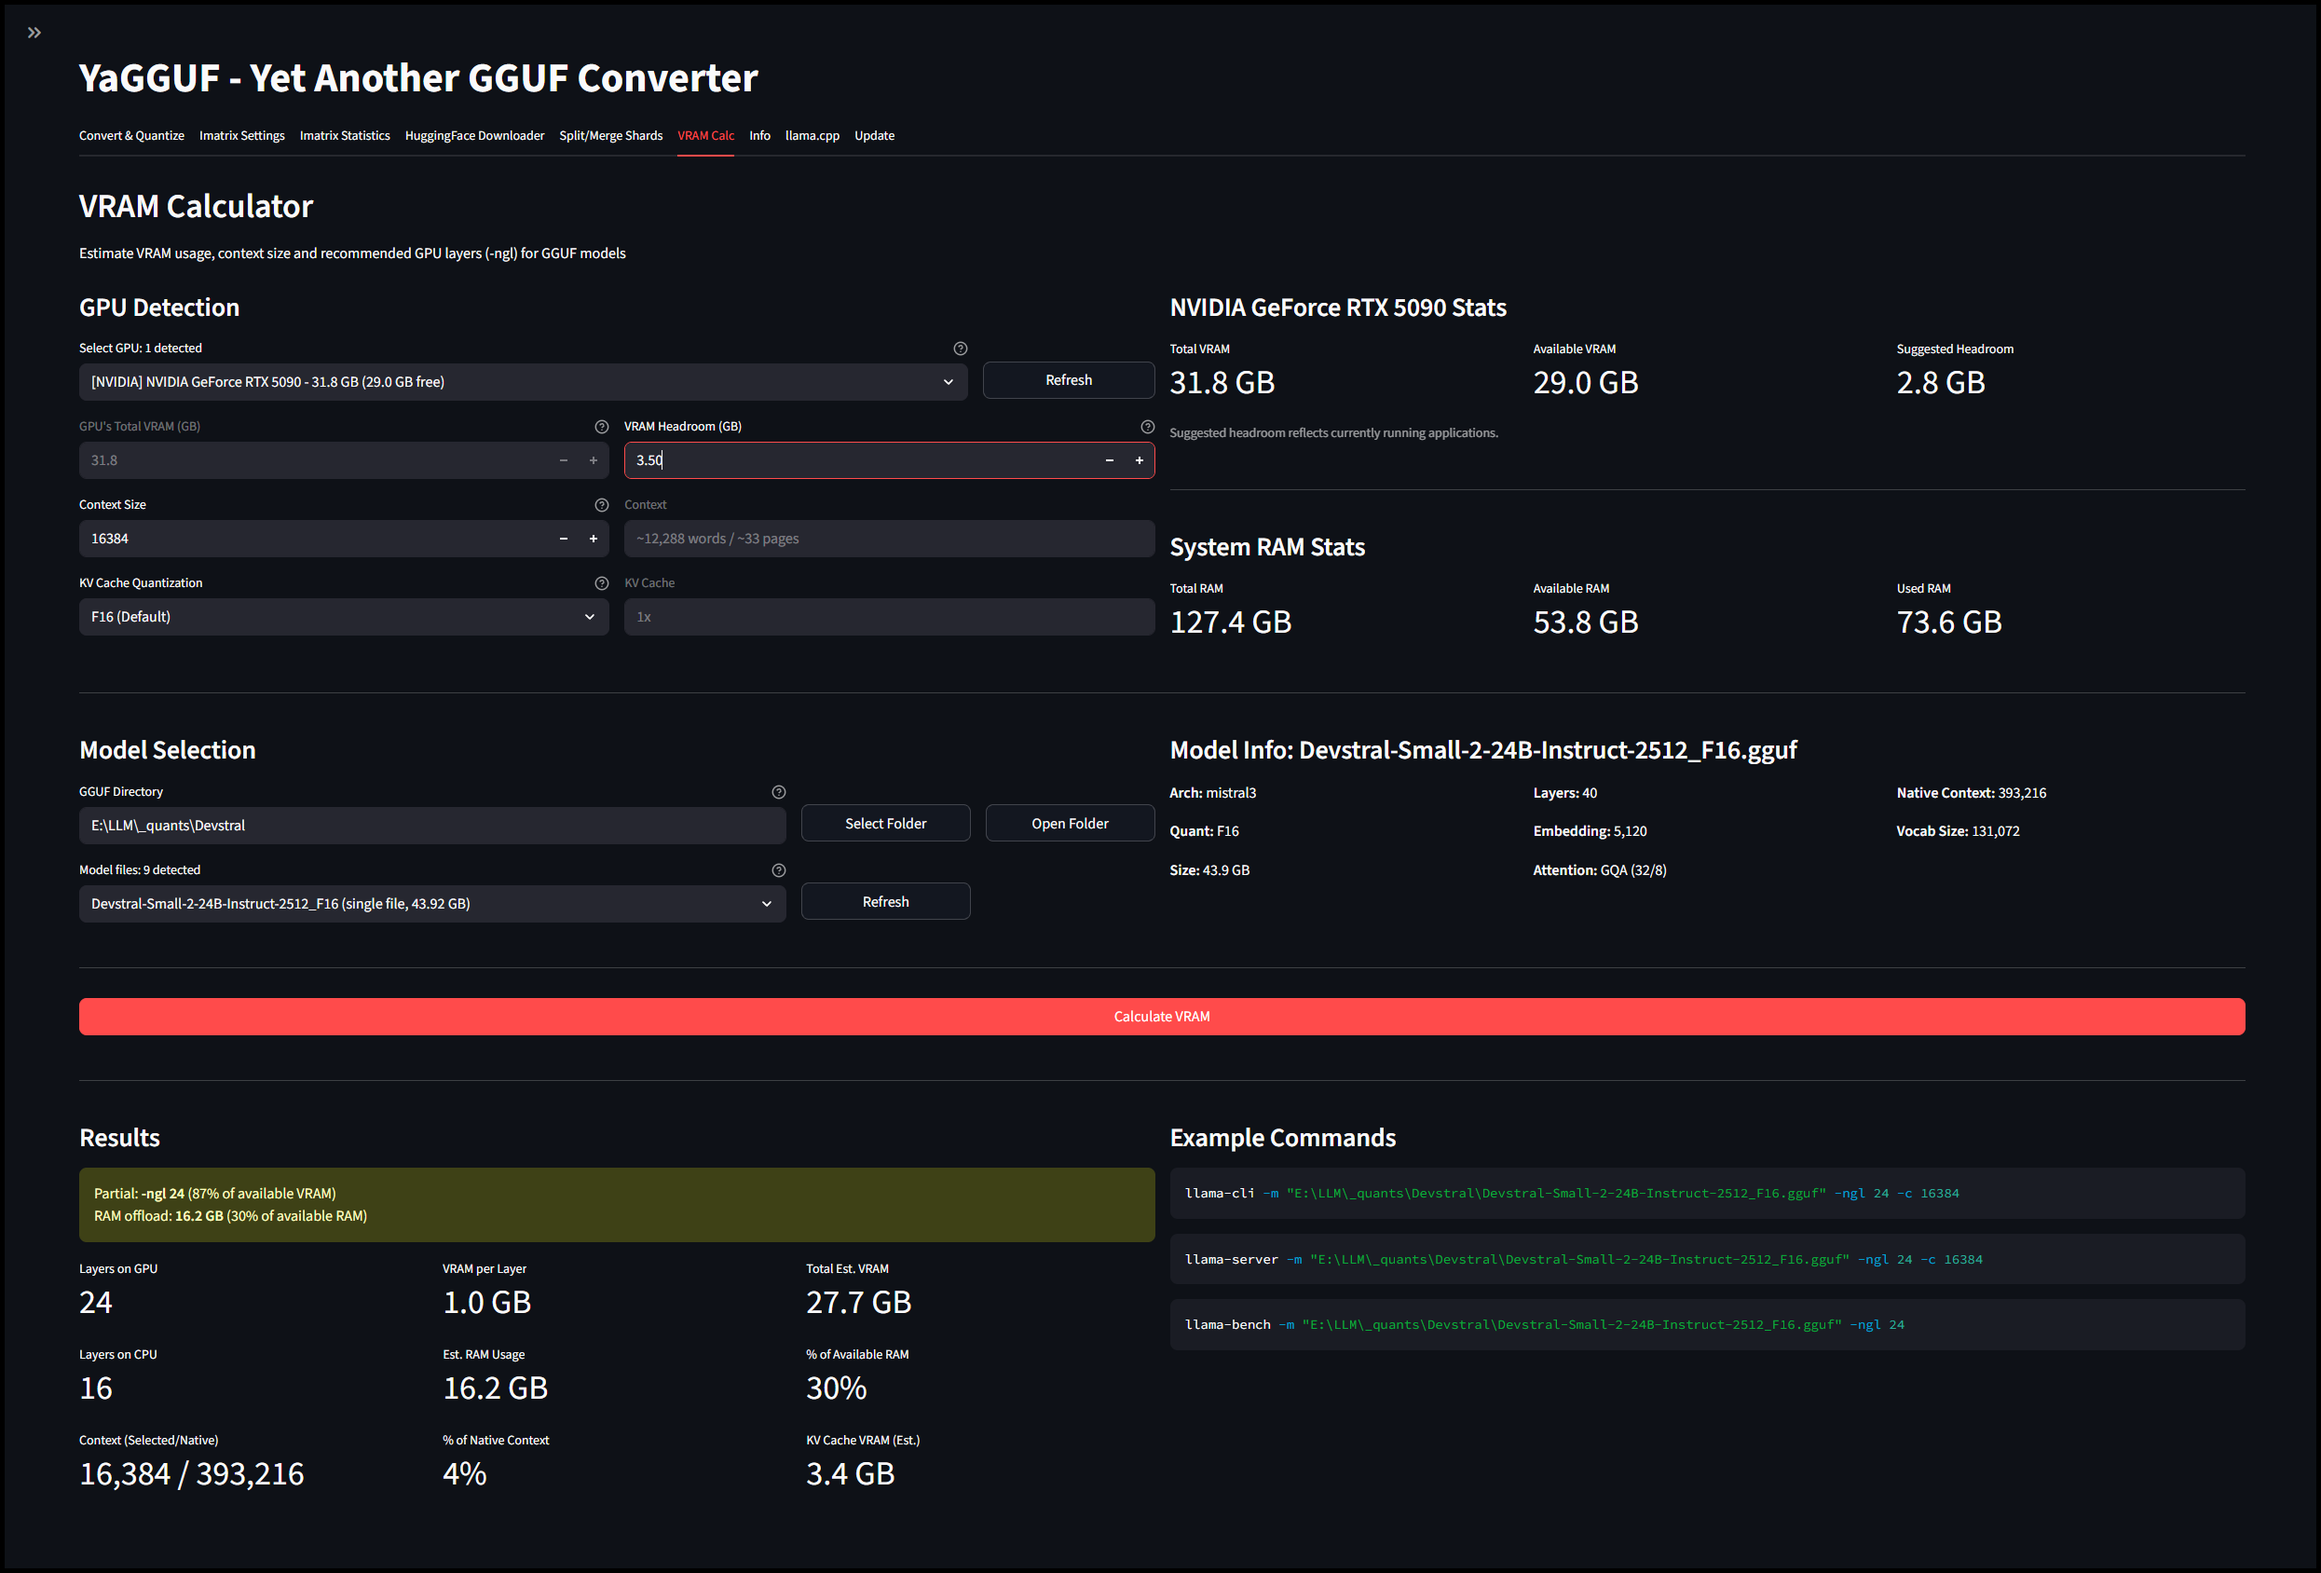
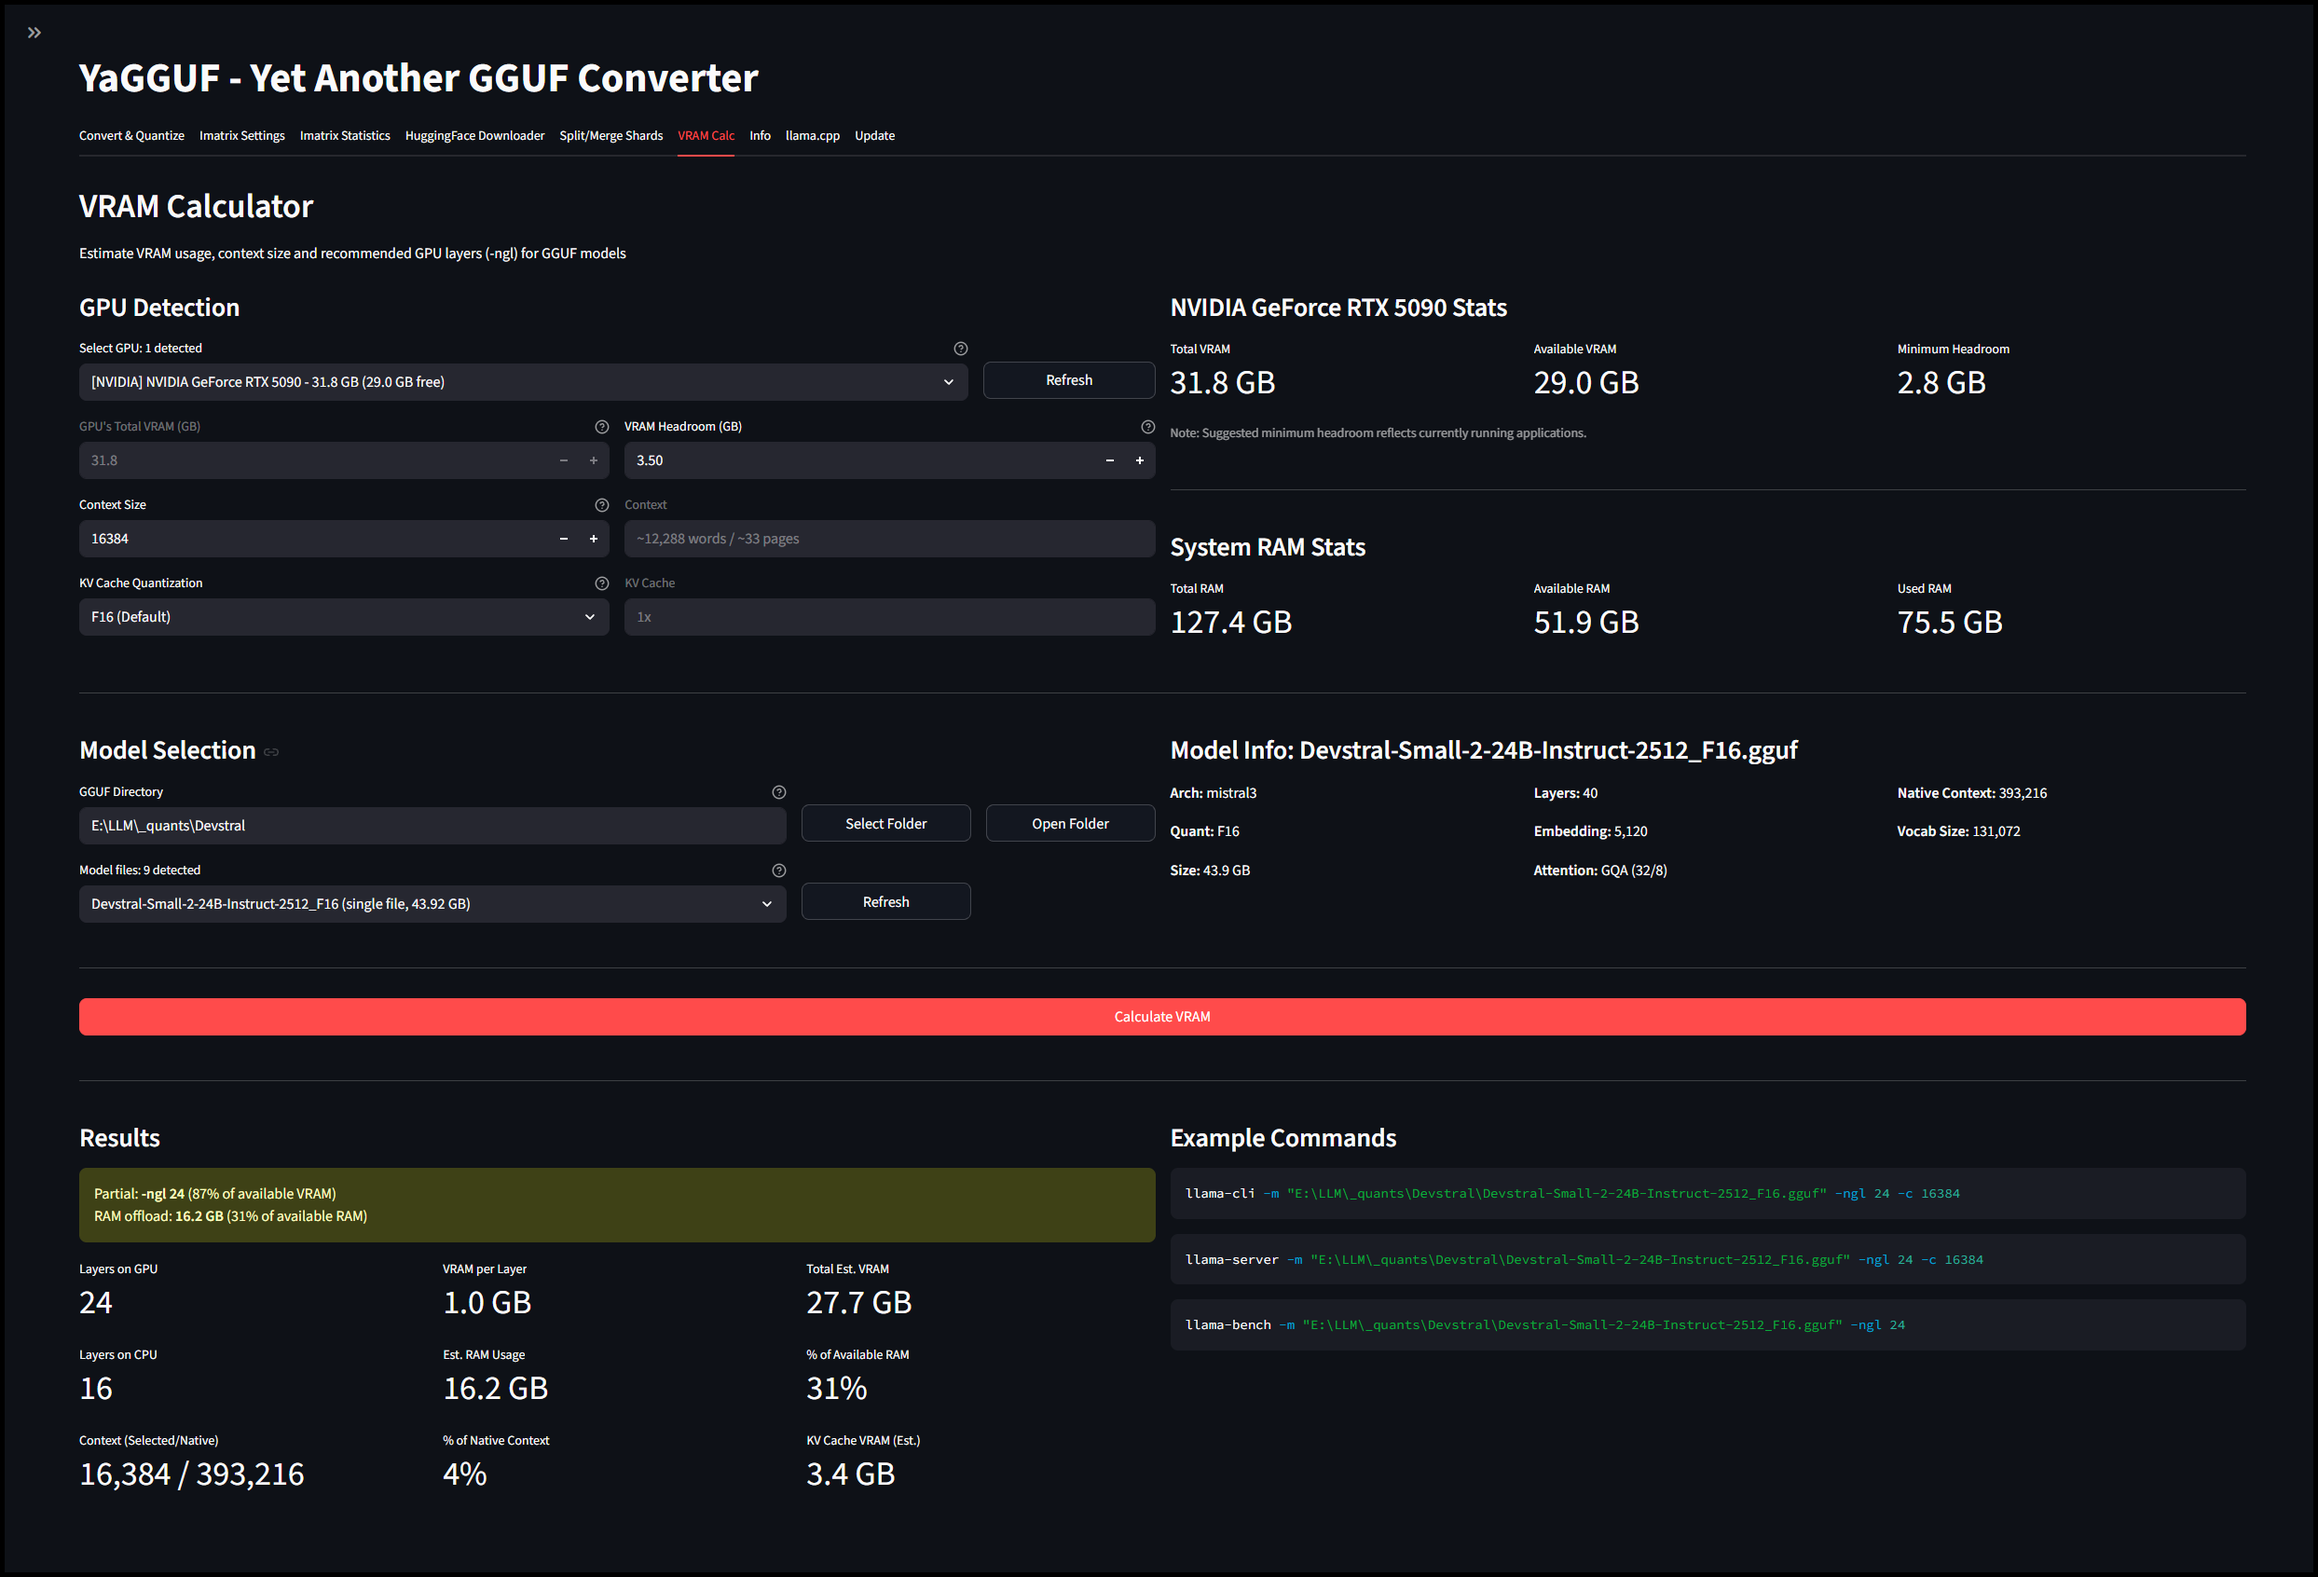
screenshots and minor text

diff --git a/gguf_converter/gui_tabs/vram_calc.py b/gguf_converter/gui_tabs/vram_calc.py
@@ -166,12 +166,12 @@ def render_vram_calc_tab(converter: "GGUFConverter", config: Dict[str, Any]) -> 
                 st.metric("Available VRAM", format_size(selected_gpu.free_mb))
             with col_suggested:
                 suggested_headroom = selected_gpu.total_mb - selected_gpu.free_mb
-                st.metric("Suggested Headroom", format_size(suggested_headroom))
+                st.metric("Minimum Headroom", format_size(suggested_headroom))
         else:
             st.subheader("Manually Entered VRAM Stats")
             st.metric("Total VRAM", format_size(total_vram))
 
-        st.caption("Suggested headroom reflects currently running applications.")
+        st.caption("Note: Suggested minimum headroom reflects currently running applications.")
 
         st.markdown("---")
         
